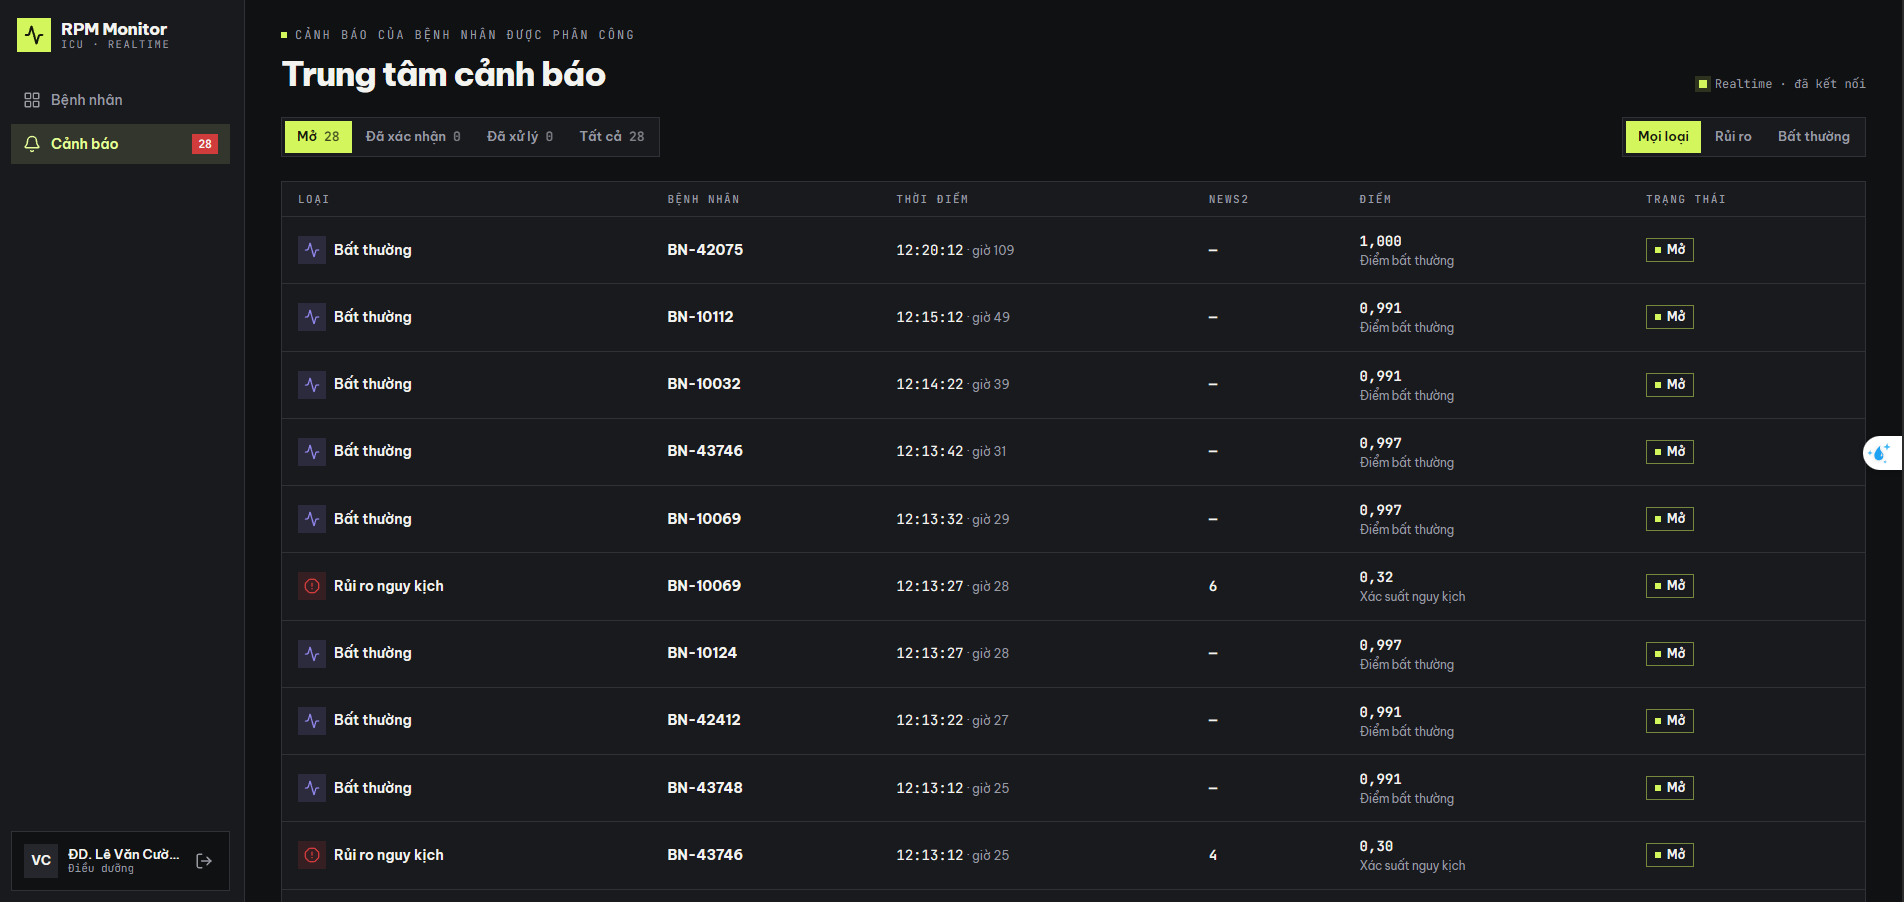
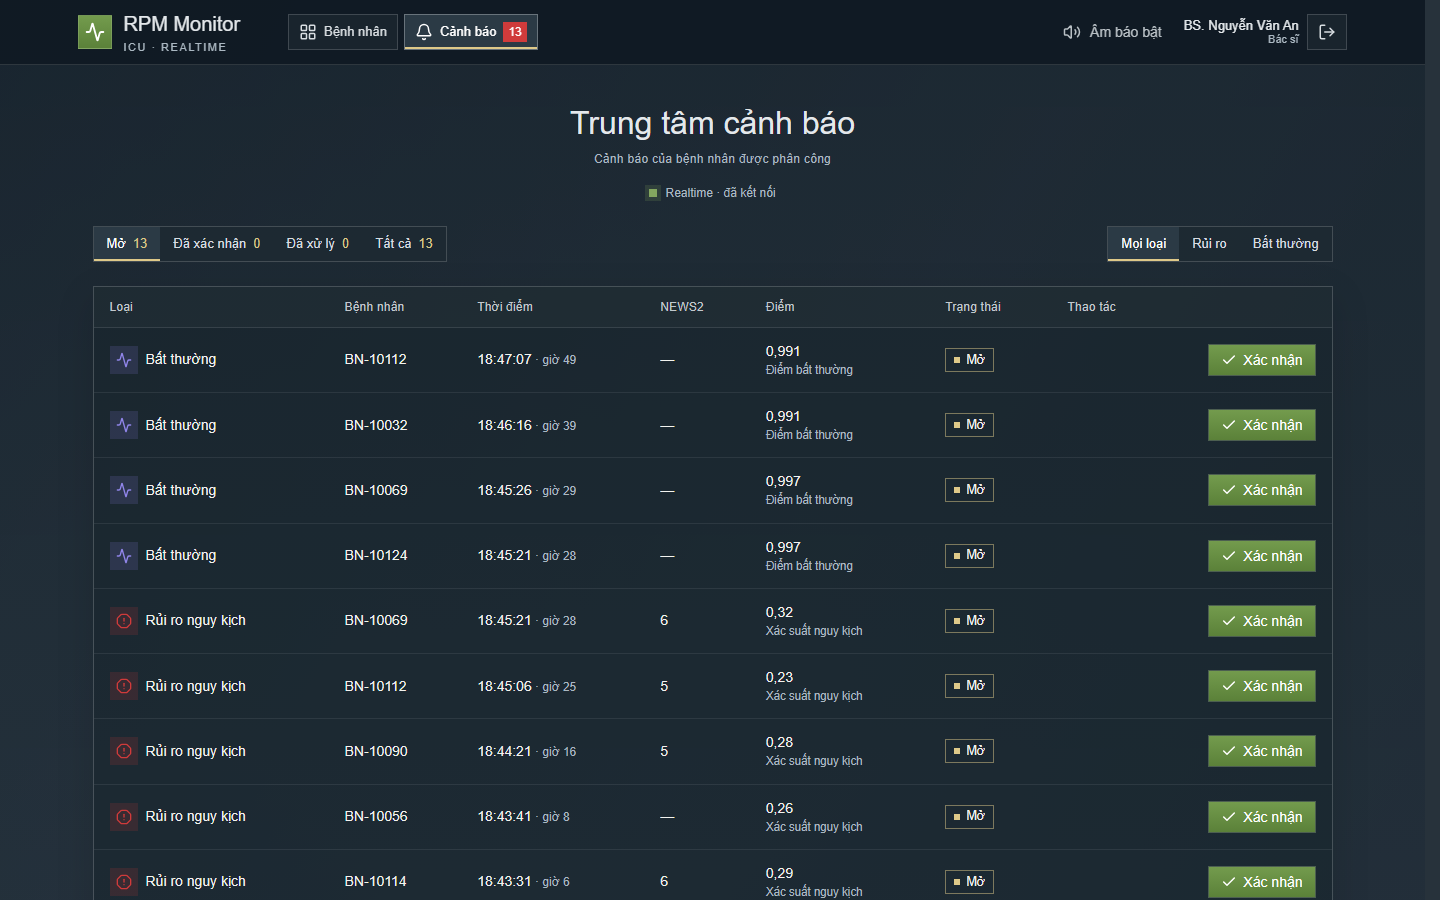
docs: đồng bộ README, thiết kế và ảnh giao diện với trạng thái hiện tại
- README: Bắt đầu nhanh sai thứ tự (--profile app đã tự bật producer, lệnh run
  producer sau đó phát lại lần hai; "không cần Python" sai vì phải train model)
  → viết lại theo đúng các bước; lệnh cài môi trường thiếu requirements của
  streaming và backend; GroupKFold trên train ∪ validation; ghi rõ thời điểm đo
  thời gian xử lý; tính năng overlay/âm báo, promote, CI, AWS; ghi nguồn phong
  cách giao diện truanayangi-ui (cả NOTICE).
- Chụp lại 9 ảnh images/ theo giao diện mới + thêm 10_alert_overlay.png.
- 02_8: bỏ các chi tiết chỉ có trên mockup (nút mở vitals đúng giờ, nút Sửa,
  nút chi tiết PSI/KS, mức rủi ro ở trang phân công); ghi chú hiện thực theo
  theme mới. 02_9: fold phụ thuộc CPU → promote artifact. 02_10: test promote,
  test cảnh báo mới, CI. 02_4: frontend xử lý alert. 01: bản demo trên EC2.
- tests/e2e/README: điều kiện bỏ qua test_3, thời lượng; deploy README: quyền
  xem credit; docs/report/README: ảnh đã chụp lại.

diff --git a/docs/design/02_8_thiet_ke_giao_dien.md b/docs/design/02_8_thiet_ke_giao_dien.md
@@ -146,11 +146,11 @@ Nguyên tắc:
 - **Nội dung thẻ**, theo thứ tự đọc:
   1. Mã bệnh nhân, tuổi, giới, giờ dữ liệu hiện tại.
   2. **Badge rủi ro dự báo 4 giờ tới** kèm xác suất — thông tin quan trọng nhất, đặt góc phải trên.
-  3. 4 vitals mới nhất: HR, SpO₂, RR, huyết áp, chữ mono cỡ lớn.
+  3. 4 vitals mới nhất: HR, SpO₂, RR, huyết áp, số cỡ lớn (số tabular để thẳng cột).
   4. **Dải rủi ro 12 giờ qua**: 12 ô màu, cho thấy bệnh nhân đang xấu đi hay ổn định lại mà không cần mở chi tiết.
   5. **NEWS2 hiện tại** (màu trung tính) và **trạng thái bất thường**. Bệnh nhân vào ICU chưa đủ 16 giờ hiển thị "Chưa đủ 16 giờ" thay vì để trống khó hiểu.
   6. Số cảnh báo đang mở và thời gian cập nhật.
-- **Viền dưới 3px** theo màu rủi ro giúp quét nhanh cả lưới thẻ.
+- **Thanh đáy 5px và ánh màu dâng lên từ đáy thẻ** theo màu rủi ro (thẻ CS:GO) giúp quét nhanh cả lưới thẻ.
 - **Bộ lọc** Tất cả / Nguy kịch / Cảnh báo kèm số lượng; ô tìm theo mã bệnh nhân.
 - **Realtime**: mỗi prediction mới qua WebSocket cập nhật đúng thẻ tương ứng. Badge đổi mức có chuyển màu và thẻ được sắp lại vị trí.
 
@@ -177,7 +177,7 @@ Nguyên tắc:
   - **Dải Rủi ro 4 giờ tới**: mỗi ô là mức rủi ro dự báo tại giờ đó, cho thấy thời điểm bệnh nhân chuyển từ Bình thường sang Cảnh báo rồi Nguy kịch.
   - **Hover**: crosshair dọc qua mọi dải và tooltip tổng hợp mọi chỉ số, mức rủi ro, NEWS2, điểm bất thường tại giờ đó.
 - **Cảnh báo của bệnh nhân**: đặt **dưới biểu đồ**, theo đúng quan hệ `UC07 <<include>> UC05` (xem vitals trước khi xác nhận). Mỗi cảnh báo hiển thị loại, trạng thái, giờ dữ liệu và chi tiết. Thao tác chỉ dành cho Bác sĩ:
-  - `Mở` → nút **Xác nhận**, kèm nút mở vitals đúng giờ phát sinh cảnh báo;
+  - `Mở` → nút **Xác nhận** (giờ dữ liệu phát sinh cảnh báo ghi ngay trên thẻ, đối chiếu với trục giờ của biểu đồ phía trên);
   - `Đã xác nhận` → ô **ghi chú xử lý** (bắt buộc) + nút **Đã xử lý**;
   - `Đã xử lý` → hiển thị ghi chú và người xử lý.
 
@@ -200,7 +200,7 @@ Nguyên tắc:
 *Hình 2.8.6 — Tab Người dùng.*
 
 - Header của Admin chỉ có 4 mục quản trị (không có mục Bệnh nhân); mục đang mở có gạch chân vàng.
-- Bảng tài khoản: họ tên, email (mono), vai trò, trạng thái (công tắc Hoạt động / Đã khóa), số bệnh nhân phụ trách, nút Sửa. Nút **Thêm tài khoản** là hành động chính (nút xanh lá).
+- Bảng tài khoản: họ tên, email, vai trò (đổi trực tiếp bằng ô chọn trên dòng), trạng thái (công tắc Hoạt động / Đã khóa), số bệnh nhân phụ trách. Nút **Thêm tài khoản** là hành động chính (nút xanh lá), mở hộp thoại tạo tài khoản.
 - Không xóa cứng tài khoản: khóa tài khoản để giữ lịch sử người xác nhận/xử lý cảnh báo. Admin không thể tự khóa hoặc tự bỏ quyền Quản trị của mình (API trả 409).
 
 ### f) Quản trị · Phân công (UC13) — Admin
@@ -211,7 +211,7 @@ Nguyên tắc:
 
 - Bố cục master–detail:
   - cột trái: danh sách bệnh nhân kèm số người phụ trách. Bệnh nhân **chưa có người phụ trách** được làm nổi bật bằng màu cảnh báo, vì cảnh báo của họ sẽ không gửi tới ai;
-  - cột phải: bệnh nhân đang chọn, mức rủi ro hiện tại, danh sách người đang phụ trách (nút Gỡ) và ô thêm người phụ trách.
+  - cột phải: bệnh nhân đang chọn (tuổi, giới, mã MIMIC), danh sách người đang phụ trách (nút Gỡ) và ô thêm người phụ trách.
 - Ô chọn chỉ liệt kê tài khoản Bác sĩ / Điều dưỡng đang hoạt động, đúng ràng buộc API (gán cho Admin → 422, gán trùng → 409).
 
 ### g) Quản trị · Ngưỡng cảnh báo (UC08) — Admin
@@ -226,7 +226,7 @@ Nguyên tắc:
   - Hoặc tự đặt ngưỡng. Cách này tránh việc Admin phải nhớ và nhập lại ngưỡng mỗi khi champion đổi.
 - **τ_anomaly** kèm diễn giải "≈ 1% cửa sổ bình thường bị gắn cờ nhầm".
 - **Thời gian chờ** ghi rõ đơn vị là giờ dữ liệu, không phải giờ đồng hồ (mục 2.9.6).
-- **Lịch sử thay đổi**: mỗi lần lưu tạo một bản ghi mới, kèm người sửa và thời điểm. Thay đổi có hiệu lực với stream consumer trong vòng 30 giây.
+- **Lịch sử thay đổi**: mỗi lần lưu tạo một bản ghi mới trong bảng `alert_settings` (không ghi đè), nên lịch sử còn nguyên trong CSDL; giao diện hiển thị bản ghi hiện hành (ai cập nhật, lúc nào, giá trị đang hiệu lực). Thay đổi có hiệu lực với stream consumer trong vòng 30 giây.
 
 ### h) Quản trị · Giám sát mô hình (UC09, UC10) — Admin
 
@@ -237,10 +237,10 @@ Nguyên tắc:
 - **Hai thẻ champion** (dự báo rủi ro, phát hiện bất thường): version, họ mô hình, ngưỡng, và metric chính trên tập test. Mô hình rủi ro luôn kèm **baseline persistence**: model chỉ có giá trị khi thắng baseline này.
 - **Biểu đồ drift**:
   - đường max PSI của mỗi lần kiểm tra, với 2 đường ngưỡng có nhãn (0,10 lệch trung bình; 0,25 lệch đáng kể);
-  - điểm vượt 0,25 tô đỏ, có chú thích "Kích hoạt retrain tự động";
-  - nút mở chi tiết PSI/KS từng đặc trưng.
-  - Số liệu drift trên mockup chỉ để minh họa, vì DAG `drift_check` thuộc Giai đoạn G.
-- **Bảng version**: mọi version kể cả bị từ chối, kèm kết quả quality gate, nguồn kích hoạt (INITIAL/DRIFT/MANUAL), metric và **lý do** từ chối. Ví dụ đúng lịch sử thật: v1 bị từ chối vì Recall CRITICAL 0,730 < 0,80.
+  - điểm vượt sàn 0,25 tô đỏ;
+  - rê chuột lên một lần kiểm tra: tooltip ghi có drift hay không, đã kích hoạt retrain hay chưa, và PSI của từng đặc trưng vượt ngưỡng riêng của nó.
+  - Số liệu drift trên mockup chỉ để minh họa; giao diện thật vẽ từ bảng `drift_reports` do DAG `drift_check` ghi.
+- **Bảng version**: mọi version kể cả bị từ chối, kèm kết quả quality gate, nguồn kích hoạt (INITIAL/DRIFT/MANUAL), metric và **lý do** từ chối. Ví dụ trên mockup lấy từ lịch sử huấn luyện thật: v1 bị từ chối vì Recall CRITICAL 0,730 < 0,80.
 - **Kích hoạt huấn luyện lại** (UC10):
   - bấm nút → nhận `dag_run_id` → khối trạng thái cạnh nút cập nhật định kỳ (queued / running / success / failed) cho tới khi có kết quả promote hay từ chối;
   - giao diện không giữ một request chờ lâu.
@@ -260,6 +260,6 @@ Mọi biểu đồ tuân theo hướng dẫn `dataviz`:
 
 ## 2.8.6. Ghi chú hiện thực
 
-- Mockup là tài liệu tham chiếu bắt buộc khi lập trình frontend (Giai đoạn F): lấy đúng token màu, font, kích thước và cấu tạo component từ `docs/design/mockups/build_mockups.py`.
+- Mockup là tài liệu tham chiếu cho **bố cục và cấu tạo component** (Giai đoạn F). Màu, chữ và hình khối lấy theo theme CS:GO ở mục 2.8.2 (quy ước chi tiết: `services/frontend/CLAUDE.md`), không lấy theo token lime trong `build_mockups.py`.
 - Sửa mockup: chỉnh `build_mockups.py`, chạy `python docs/design/mockups/build_mockups.py --png` để sinh lại artboard và ảnh trong `png/`, rồi cập nhật canvas.
-- Ảnh trong mục này có kích thước 1440px chiều ngang, dùng trực tiếp được cho báo cáo Word (mục 6).
+- Ảnh chụp giao diện thật (theme hiện hành) nằm ở `images/` của repo, chụp ngày 2026-09-30 từ hệ thống chạy thật với 20 bệnh nhân.

diff --git a/docs/design/02_10_thiet_ke_test.md b/docs/design/02_10_thiet_ke_test.md
@@ -37,6 +37,8 @@ Giai đoạn H chạy integration/E2E toàn hệ thống, kiểm thử phi chứ
 | Dữ liệu stream cho retrain (`rpm_ml.data.stream_data`) | • Dựng lại từ giá trị đo chưa điền trùng `hourly.parquet` (đặc trưng lẫn nhãn) trên dữ liệu thật.<br>• Mới phát một phần: nhãn h = 4 chỉ có ở giờ đã "chín".<br>• Chỉ giữ phần stream đã phát, từ chối bệnh nhân trùng nhóm khác. | pytest (dữ liệu thật) |
 | Sự kiện MLOps ở backend | • `drift_report` chỉ tới Admin đang hoạt động (WebSocket + email), không tới bác sĩ.<br>• `notify_admin = false` không gửi email; đọc lại sự kiện cũ không gửi trùng (`notification_logs.drift_report_id`).<br>• `retrain_completed` chỉ đẩy WebSocket; trạng thái retrain trả kèm kết quả gate. | pytest + httpx TestClient (DB `rpm_test` thật) |
 | Quality gate (`evaluate_gate`) | • Đủ các tổ hợp: trượt ngưỡng tuyệt đối, thua baseline persistence, kém champion, đạt tất cả.<br>• Lần đầu chưa có champion. | pytest |
+| Promote model giữa hai registry (`rpm_ml.pipelines.promote`) | • Chép đúng artifact (so hash từng tệp), params/metric/tag, `drift_thresholds.json`, tag truy vết nguồn; alias `champion` + `challenger` ở đích.<br>• Chạy lại không tạo version mới.<br>• Không phụ thuộc tracking/registry URI toàn cục (đặt URI toàn cục sang registry thứ ba vẫn đúng). | pytest (2 registry SQLite tạm) |
+| Cảnh báo mới trên giao diện (`AlertReveal`, `lib/alertReveal.ts`) | • Chỉ cảnh báo `OPEN` tới Bác sĩ/Điều dưỡng; drift cần báo và retrain xong chỉ tới Admin.<br>• Nguy kịch → overlay, xếp hàng, "Để sau" sang cảnh báo kế; Điều dưỡng không có nút Xác nhận; bất thường → toast.<br>• Toast không tự ẩn khi overlay đang mở (overlay là modal, toast nằm dưới lớp nền mờ).<br>• Lựa chọn tắt âm được nhớ; trình duyệt chặn lưu trữ thì báo rõ và mặc định bật âm. | Vitest + Testing Library (WebSocket giả) |
 
 ## 2.10.2. Integration Test
 
@@ -87,4 +89,5 @@ Tham chiếu: baseline persistence (h = 4) trên tập `test` đạt Macro F1 0,
 - Dùng một tập con nhỏ (5–10 bệnh nhân) trích từ MIMIC-III Demo làm fixture cố định cho unit/integration test — test chạy nhanh, không phụ thuộc tải toàn bộ dataset.
 - Chia theo `subject_id` giống lúc train (mục 2.9.1c), tránh rò rỉ dữ liệu giữa fixture train/test nội bộ.
 - Test hạ tầng (Kafka, Postgres) chạy bằng container tạm thời (testcontainers), tự dọn dẹp sau mỗi lần chạy.
-- Frontend: Vitest cho logic giao diện (badge theo mức rủi ro, chặn route theo role, hiển thị theo phân công), kết hợp kiểm thử thủ công theo kịch bản từng use case.
+- Frontend: Vitest cho logic giao diện (badge theo mức rủi ro, chặn route theo role, hiển thị theo phân công, overlay/toast và âm báo cảnh báo mới), kết hợp kiểm tra trực quan bằng ảnh chụp Chrome headless trên hệ thống chạy thật (có cả khung điện thoại 390 px).
+- **CI** (GitHub Actions, `.github/workflows/ci.yml`): mỗi lần push chạy toàn bộ unit test Python, test backend trên TimescaleDB dựng bằng service container, và `typecheck` + test + build của frontend. Bộ E2E (2.10.2, 2.10.4) cần cả Kafka, MLflow và model thật nên chỉ chạy trên máy phát triển.

diff --git a/tests/e2e/README.md b/tests/e2e/README.md
@@ -27,7 +27,7 @@ cd tests/e2e && ../../.venv/Scripts/python -m pytest -q
 > notification_logs, patient_assignments). Giữ nguyên users, model_versions, alert_settings, drift_reports.
 > Đừng chạy khi đang muốn giữ dữ liệu của một lần demo.
 
-Toàn bộ mất khoảng 7 phút, phần lớn là phép đo độ trễ (phát lại ở tốc độ thật) và việc khởi động lại consumer
+Toàn bộ mất khoảng 6 phút (5 phút 24 giây ở lần chạy 2026-09-30), phần lớn là phép đo độ trễ (phát lại ở tốc độ thật) và việc khởi động lại consumer
 (mỗi lần nạp TensorFlow + 2 model mất ~15 giây).
 
 ## Các module (chạy đúng theo thứ tự số)
@@ -38,7 +38,7 @@ Thứ tự có ý nghĩa: con trỏ giờ phát lại dùng chung cả phiên, v
 |---|---|---|
 | `test_1_streaming_pipeline.py` | 2.10.2 dòng 1 | vitals → vital_record + prediction + `predictions-stream`; nhiều giờ CRITICAL liên tiếp chỉ 1 cảnh báo + `alerts-stream`; giờ trùng bị bỏ qua |
 | `test_2_realtime_events.py` | 2.10.2 dòng 2, 3 | prediction/alert chỉ tới WebSocket của người được phân công; `notification_logs` đúng người nhận; đăng nhập sai → 401, token sai → WebSocket đóng; `alert_update` khi xác nhận/xử lý |
-| `test_3_model_reload.py` | 2.10.2 dòng 6 | đổi alias `champion` trên MLflow → consumer nạp version mới, prediction ghi đúng version, cờ champion trong `model_versions` đi theo |
+| `test_3_model_reload.py` | 2.10.2 dòng 6 | đổi alias `champion` trên MLflow → consumer nạp version mới, prediction ghi đúng version, cờ champion trong `model_versions` đi theo. Cần registry có ≥ 2 version `risk_classifier`; chỉ có 1 (vd registry mới dựng lại) thì test tự bỏ qua kèm lý do |
 | `test_4_fault_tolerance.py` | 2.10.4 dòng 2, 3 | giết cứng consumer giữa chừng; tắt backend lúc đang replay rồi bật lại |
 | `test_5_latency.py` | 2.10.4 dòng 1 | độ trễ đầu–cuối producer → WebSocket, 20 bệnh nhân, tốc độ mặc định; ngưỡng p95 < 2 giây |
 

diff --git a/docs/design/01_gioi_thieu.md b/docs/design/01_gioi_thieu.md
@@ -19,7 +19,7 @@ Xây dựng một **hệ thống giám sát bệnh nhân từ xa** có khả nă
 
 ## 1.3. Phạm vi đề tài
 
-- **Trong phạm vi**: toàn bộ pipeline từ mô phỏng nguồn dữ liệu (replay dữ liệu ICU thật từ bộ dữ liệu công khai MIMIC-III Clinical Database Demo) → streaming (Kafka) → suy luận mô hình → lưu trữ (PostgreSQL/TimescaleDB) → API & thời gian thực (FastAPI, WebSocket) → giao diện web (React) → vòng lặp MLOps (MLflow, drift detection, Airflow retrain). Triển khai bằng Docker Compose trên môi trường cục bộ.
+- **Trong phạm vi**: toàn bộ pipeline từ mô phỏng nguồn dữ liệu (replay dữ liệu ICU thật từ bộ dữ liệu công khai MIMIC-III Clinical Database Demo) → streaming (Kafka) → suy luận mô hình → lưu trữ (PostgreSQL/TimescaleDB) → API & thời gian thực (FastAPI, WebSocket) → giao diện web (React) → vòng lặp MLOps (MLflow, drift detection, Airflow retrain). Triển khai bằng Docker Compose trên môi trường cục bộ; bản demo online chạy cùng cấu hình đó trên một máy AWS EC2 (`deploy/aws/`).
 - **Ngoài phạm vi** (đề cập ở mục Hướng phát triển): triển khai production nhiều máy / dịch vụ cloud có quản lý (bản demo đã chạy trên **một** máy AWS EC2 bằng chính Docker Compose — `deploy/aws/`, bổ sung 2026-09-30), tích hợp thiết bị IoT y tế thật, các quy định pháp lý về dữ liệu y tế (HIPAA/GDPR) ở mức triển khai sản xuất thực tế.
 
 ## 1.4. Đối tượng người dùng

diff --git a/docs/report/README.md b/docs/report/README.md
@@ -117,7 +117,7 @@ Theo yêu cầu "chưa biết thì không ghi", những thông tin dưới đây
 3. **Bài báo** chỉ có một tác giả và một email; nếu làm nhóm hoặc muốn ghi tên giảng viên hướng dẫn làm đồng tác giả (như tệp mẫu) thì cần bổ sung.
 4. **Hai mục "LÀM VIỆC NHÓM" và "TỰ ĐÁNH GIÁ"** của mẫu đã được **bỏ khỏi** báo cáo vì không biết đồ án làm một mình hay theo nhóm. Nếu môn học yêu cầu thì thêm lại.
 5. **Logo trường** ở trang bìa — mẫu có, repo chưa có ảnh này.
-6. **Một ảnh giao diện cần chụp lại** (cần đăng nhập, Claude không tự nhập mật khẩu được):
+6. ~~**Một ảnh giao diện cần chụp lại**~~ — **xong 2026-09-30**: cả 9 ảnh trong `images/` đã chụp lại theo giao diện mới (theme CS:GO classic) bằng Chrome headless, JWT lấy qua API nên không cần nhập mật khẩu vào trang; thêm `images/10_alert_overlay.png`. Mô tả cũ giữ lại bên dưới để tra cứu:
    `images/3_patient_detail.png` — bản đang dùng ở báo cáo và ở mục "Giao diện" của `README.md` gốc vẫn còn lỗi cũ: bệnh nhân ở giờ thứ 88, dải bất thường đầy đủ, nhưng thẻ "Diễn biến bất thường" ghi "Chưa đủ 16 giờ". Lỗi đã sửa trong code, chỉ thiếu ảnh mới.
    (`images/2_patient_list.png` đã được thay bằng bản chụp lại sau khi sửa lỗi, ngày 2026-09-13.)
 

diff --git a/docs/design/02_4_sequence.md b/docs/design/02_4_sequence.md
@@ -42,6 +42,7 @@ sequenceDiagram
 ```
 
 Ghi chú hiện thực:
+- Frontend nhận `alert` (từ 2026-09-30, mục 2.8.2d): cảnh báo rủi ro nguy kịch mở overlay toàn màn hình (xếp hàng nếu nhiều, Bác sĩ xác nhận ngay tại đó → `POST /alerts/{id}/acknowledge` → backend đẩy `alert_update`), cảnh báo bất thường hiện toast; cả hai kèm âm báo tổng hợp. Sơ đồ dừng ở bước đẩy WebSocket vì phần hiển thị không đổi luồng dữ liệu.
 - **Quyết định cảnh báo nằm trước khi ghi DB**, và vital_record + prediction + alert được ghi trong **một transaction duy nhất** (`repository.save_hour`). Sơ đồ trước 2026-09-12 vẽ hai lần ghi DB riêng và đặt bước quyết định sau khi publish prediction — đã sửa cho khớp `services/streaming/src/rpm_streaming/consumer/main.py`.
 - **Model Service** là module chạy bên trong consumer, không phải service riêng.
   - Khi khởi động, nó nạp `models:/risk_classifier@champion` và `models:/anomaly_detector@champion` từ MLflow.

diff --git a/deploy/aws/README.md b/deploy/aws/README.md
@@ -39,6 +39,8 @@ Máy tắt: ≈ $0,3/ngày. Mỗi giờ demo: ≈ $0,13. Chạy 24/7 cả tháng
 
 1. AWS Console → **IAM → Users → Create user**, tên `rpm-deployer`, *không* cần quyền truy cập Console.
 2. **Attach policies directly** → chọn `AmazonEC2FullAccess` → Create user.
+   Tuỳ chọn, để `rpm-aws.sh status` hiện được credit còn lại: thêm inline policy chỉ đọc
+   `{"Version":"2012-10-17","Statement":[{"Effect":"Allow","Action":["freetier:GetAccountPlanState","freetier:GetFreeTierUsage"],"Resource":"*"}]}`.
 3. Mở user vừa tạo → **Security credentials → Create access key** → *Command Line Interface (CLI)* → lưu Access key ID
    và Secret access key.
 4. Trên máy mình, trong terminal (không dán key vào chat):

diff --git a/CLAUDE.md b/CLAUDE.md
@@ -256,7 +256,7 @@ docker compose --profile app up -d                          # backend :8000, fro
 
 # Môi trường Python (một lần, từ gốc repo); cài package nội bộ không cần mạng: thêm --no-build-isolation --no-deps
 python -m venv .venv
-.venv\Scripts\python -m pip install -e packages/common -e ml -e services/streaming -r ml/requirements.txt
+.venv\Scripts\python -m pip install -e packages/common -e ml -e services/streaming -r ml/requirements.txt -r services/streaming/requirements.txt -r services/backend/requirements.txt
 
 # Test (từ gốc repo; backend cần postgres đang chạy, tự tạo DB rpm_test)
 cd packages/common && ..\..\.venv\Scripts\python -m pytest -q && cd ..\..
